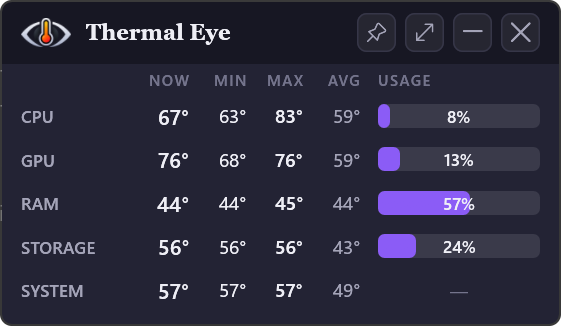
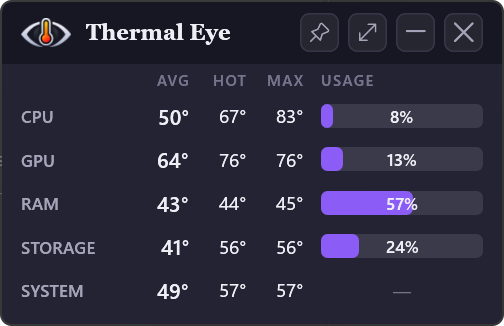
Retake the README screenshots for the new columns
The screenshots show AVG, HOT and MAX, the graph key naming only the
lines drawn, and the core rows' clock, power and peak. Their widths match
the narrower default window, and the feature list describes the columns
and core figures in their new order.

diff --git a/README.md b/README.md
@@ -14,16 +14,17 @@
 </p>
 
 <p align="center">
-  <img src="assets/screenshot.png" width="654" alt="Thermal Eye showing temperatures and usage for each component, above a history graph">
+  <img src="assets/screenshot.png" width="602" alt="Thermal Eye showing temperatures and usage for each component, above a history graph">
 </p>
 
 ## What it does
 
-- **Every component in one place:** average, hottest and coolest temperature, plus
-  average usage, for your CPU, graphics card, RAM, drives and motherboard.
+- **Every component in one place:** average temperature, the hottest and coolest
+  sensors now and over time, and average usage, for your CPU, graphics card, RAM,
+  drives and motherboard.
 - **History graph:** use the dot at the end of a row to plot it, from whole components
   down to a single core or sensor, over anything from the last minute to the last 24 hours.
-- **Every core:** open the CPU row to see each core's clock, low, peak, power and usage,
+- **Every core:** open the CPU row to see each core's clock, power, peak, low and usage,
   grouped by die.
 - **Compact view:** a small window that stays out of the way, and can stay on top.
 - **In the tray:** the hottest reading sits by the clock, coloured the same way, with
@@ -38,7 +39,7 @@
 - **Updates itself:** one click to install a new version.
 
 <p align="center">
-  <img src="assets/screenshot-compact.png" width="374" alt="The compact view of Thermal Eye">
+  <img src="assets/screenshot-compact.png" width="336" alt="The compact view of Thermal Eye">
   &nbsp;&nbsp;
   <img src="assets/screenshot-cores.png" width="336" alt="The CPU row opened to show every core">
 </p>
